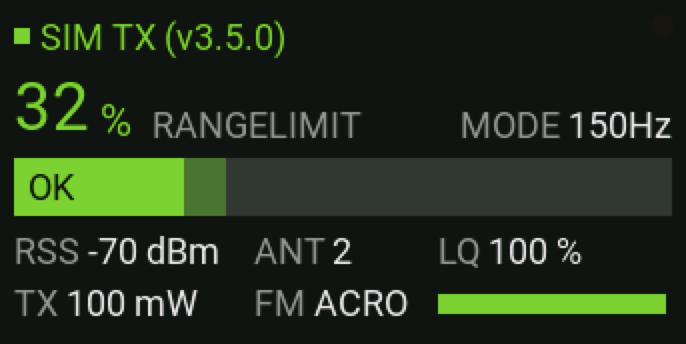
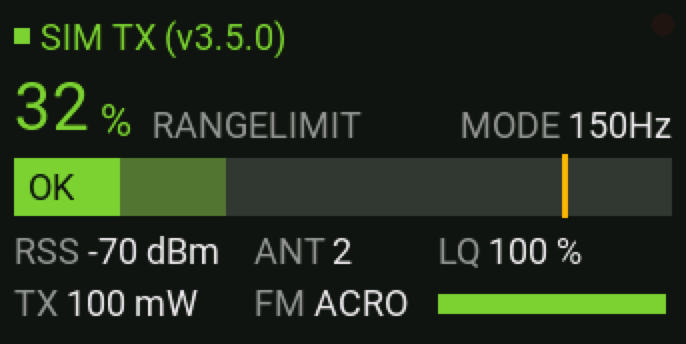
Widget: yellow stage 1 mark on the range bar as on Lipo Nanny's battery bar; core warnPct, the stage 1 threshold as RANGELIMIT %; new README flight screenshot

Changed region(s): [[0.1531, 0.436, 0.2755, 0.6395], [0.7959, 0.436, 0.8265, 0.6395]]

diff --git a/README.md b/README.md
@@ -191,7 +191,7 @@ All files are available in the matching folders of this repository, so just copy
 - With a very weak link **and** packet loss the sentinel automatically switches to the critical warning tone.
 - If you enabled haptic feedback, the radio vibrates together with each warning tone.
 - Each warning switches a dimmed display back on (restarts the backlight timeout).
-- On the widget, the range bar fills towards 100 % and changes color (green → yellow → red) in lockstep with the audio warning.
+- On the widget, the range bar fills towards 100 % and changes color (green → yellow → red) in lockstep with the audio warning. A yellow mark on the bar shows where the first warning starts.
 - With dynamic TX power the widget reads the module's Max Power after connecting. While the module sends below it, the end of the range bar is lighter: that part of the bar goes away once the module sends at full power.
 - Before the flight the widget shows a preflight page (LQ, mode, link status, RSSI, TX power). Once the link is OK, a bar at the bottom right counts down 15 s to the flight view; arming switches at once. After the flight (1.5 s without link) an end page shows the flight's lowest LQ, highest RANGELIMIT, highest TX power and the mode for 30 s.
 
